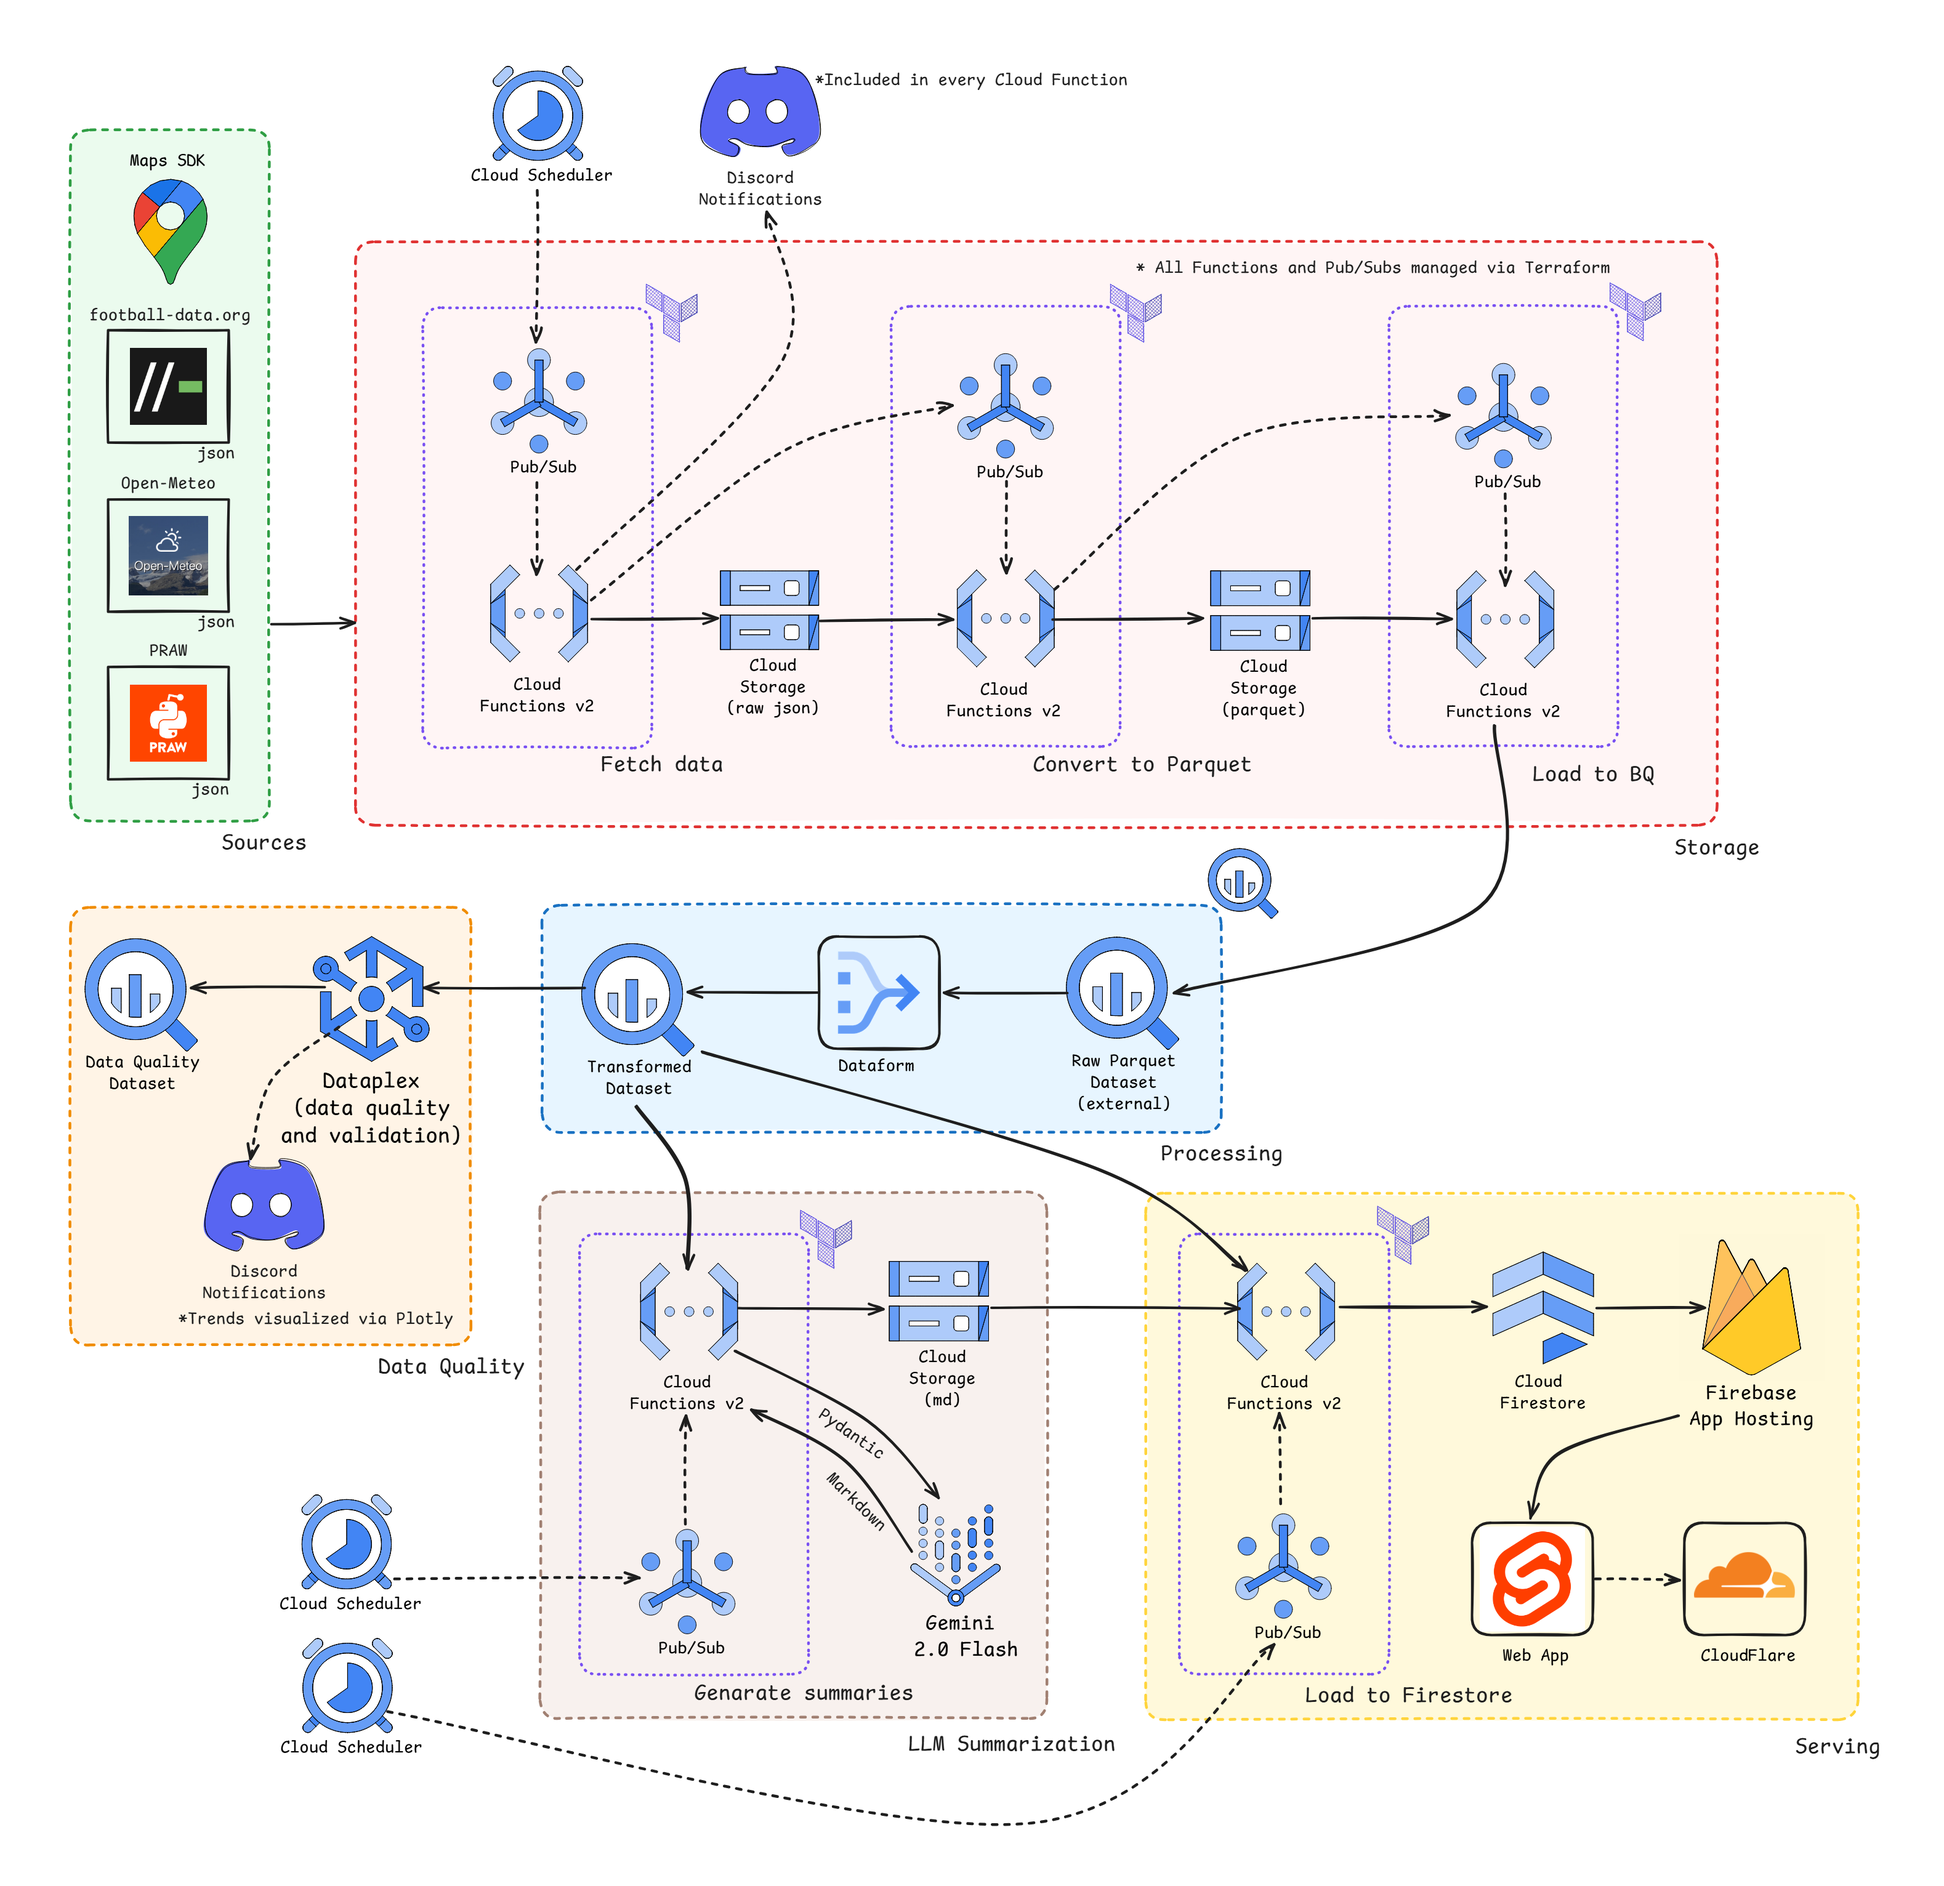
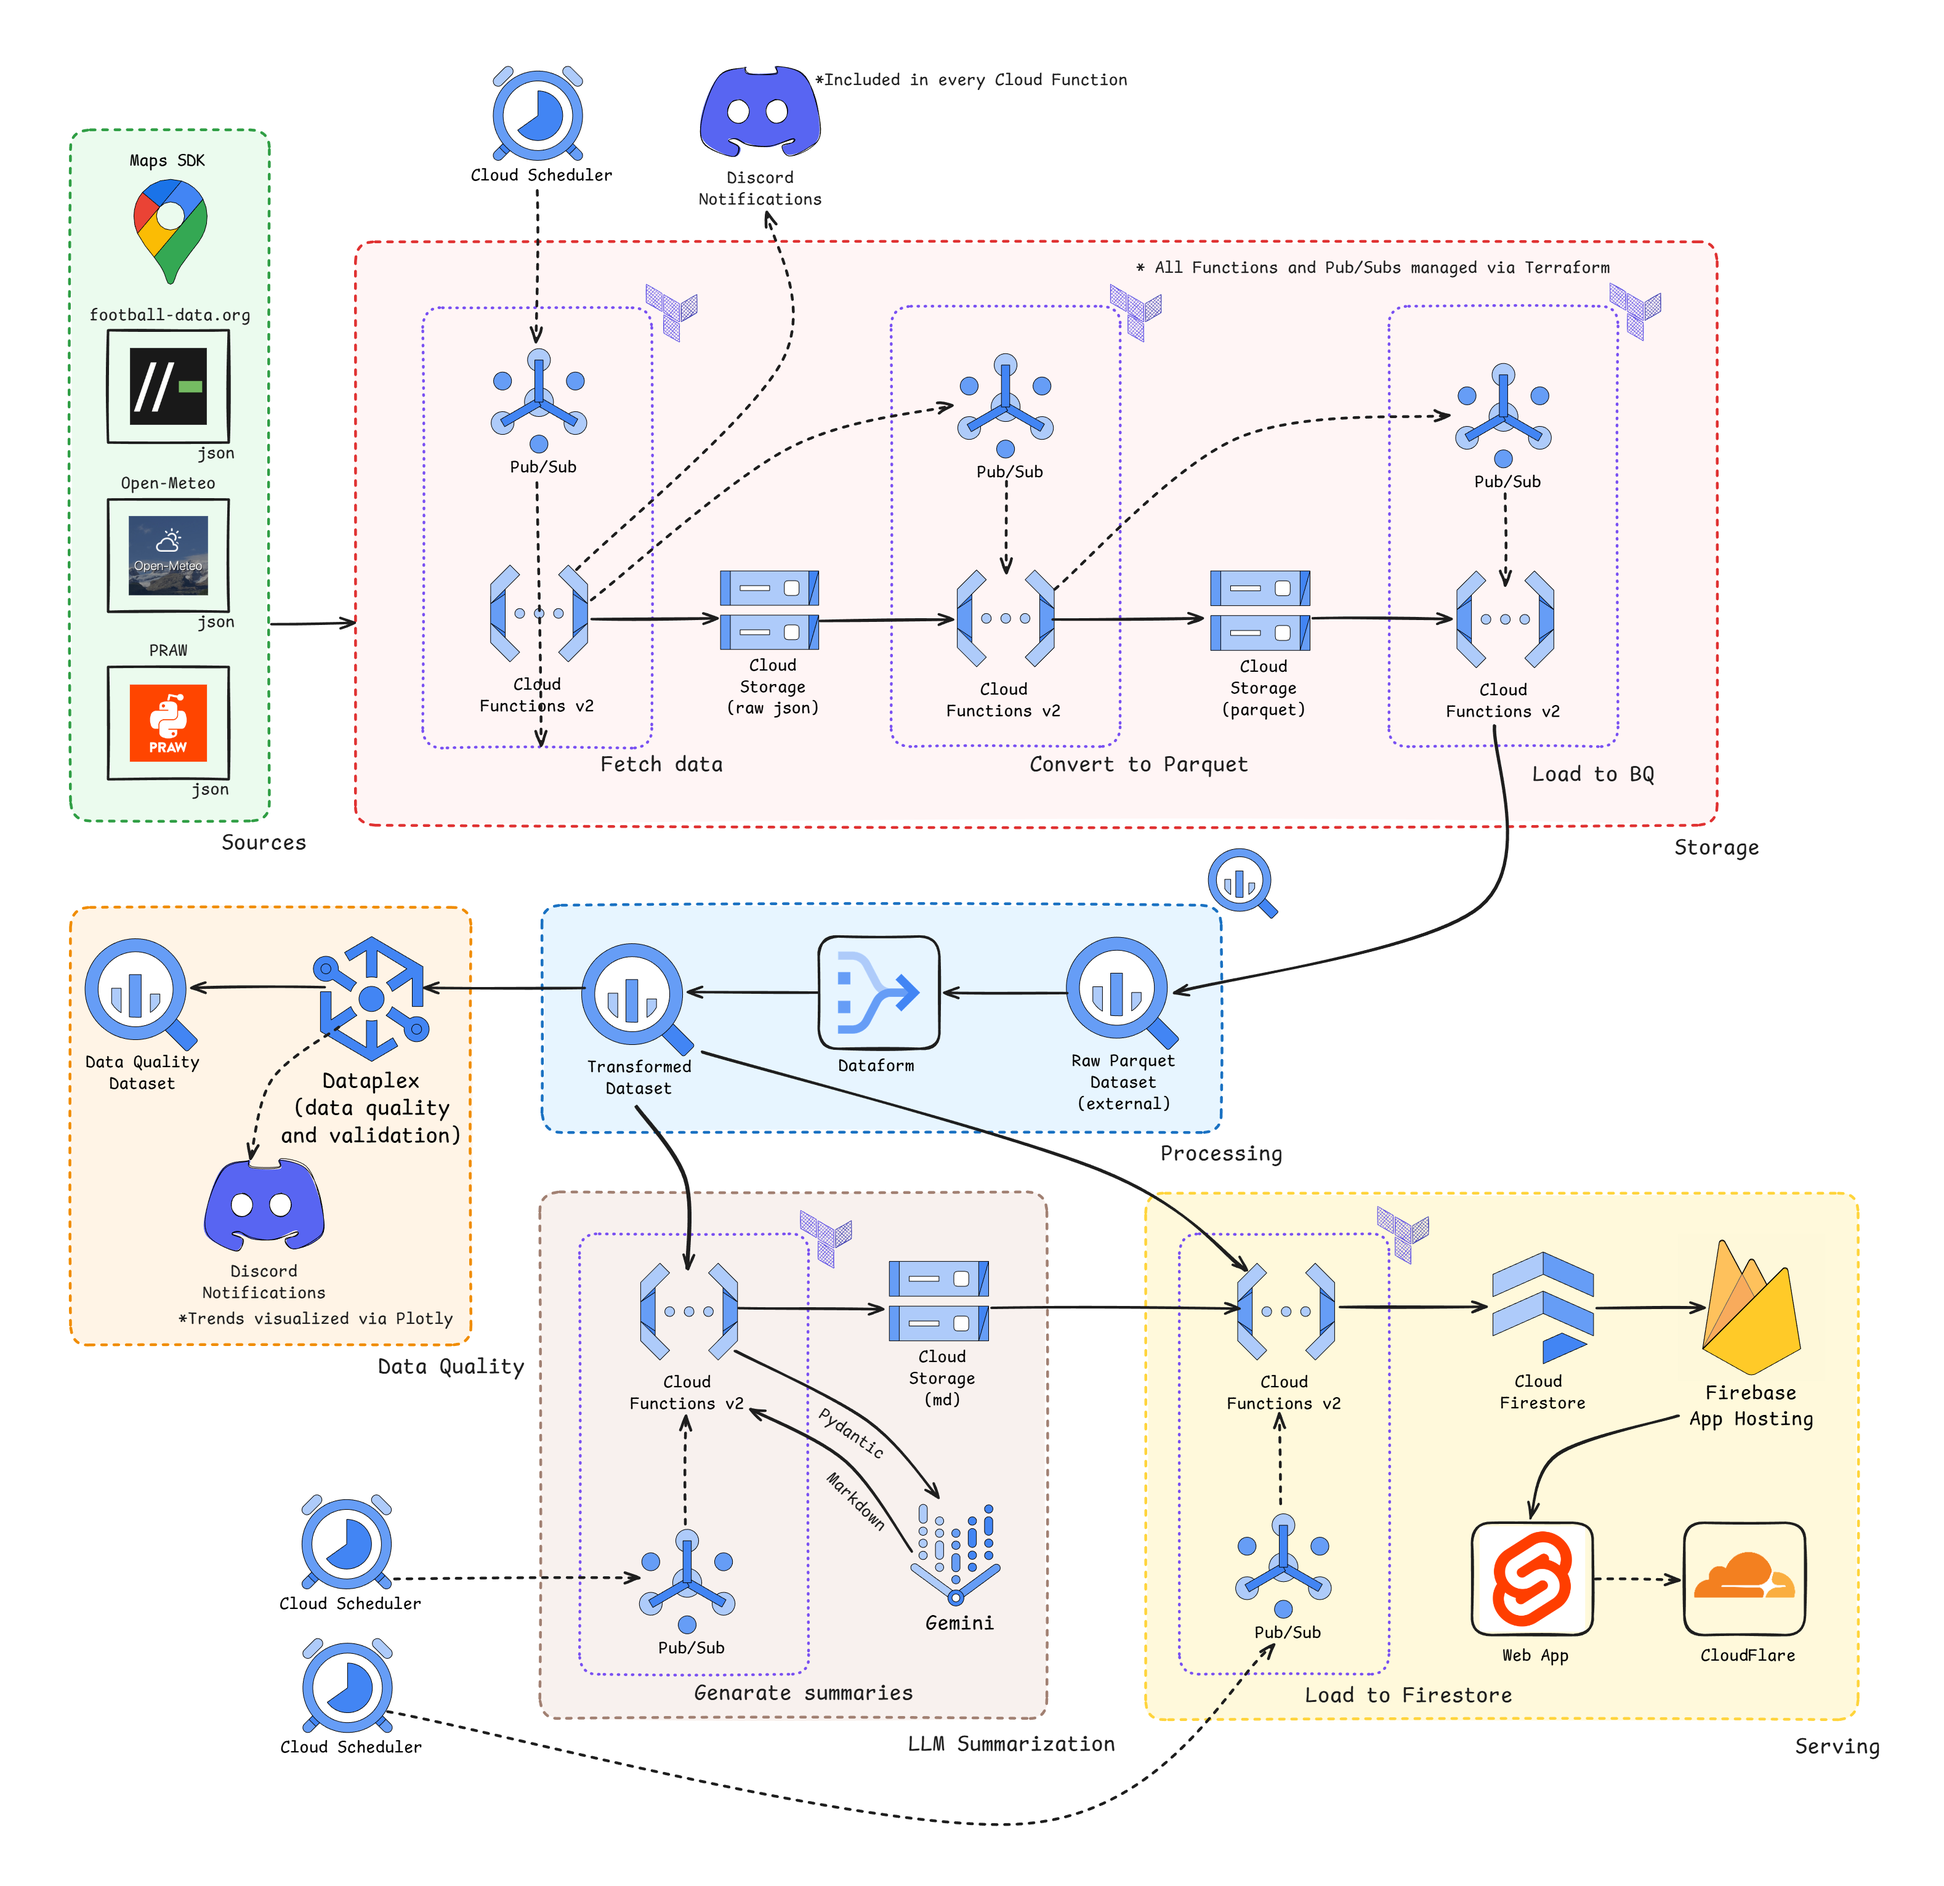
chore: update to Gemini 2.5 Flash

Changed region(s): [[0.5898, 0.4032, 0.6519, 0.4342], [0.5277, 0.4032, 0.5588, 0.4342], [0.3725, 0.3102, 0.4035, 0.3412]]

diff --git a/soccer_tracker_ui/src/routes/about/+page.svelte b/soccer_tracker_ui/src/routes/about/+page.svelte
@@ -102,7 +102,7 @@
 		</li>
 		<li>
 			<span class="font-semibold">Summarization:</span> Creation of short summaries in Markdown with
-			Gemini 2.0 Flash
+			Gemini
 		</li>
 		<li>
 			<span class="font-semibold">Visualization:</span> This web app for insights
@@ -191,7 +191,7 @@
 				</tr>
 				<tr class="border-b">
 					<td class="px-4 py-2">LLM</td>
-					<td class="px-4 py-2">Google Gemini 2.0 Flash</td>
+					<td class="px-4 py-2">Google Gemini 2.5 Flash</td>
 				</tr>
 			</tbody>
 		</table>

diff --git a/cloud_functions/summary_generation/main.py b/cloud_functions/summary_generation/main.py
@@ -216,7 +216,7 @@ ORDER BY match_date, league
             project=os.environ.get("GCP_PROJECT_ID"),
             location="us-central1",
         )
-        model = "gemini-2.0-flash-001"
+        model = "gemini-2.5-flash"
         generated_count = 0
         for match_date, league, prompt in summaries:
             filename = f"match_summaries/{match_date}_{normalize_text(league)}.md"

diff --git a/README.md b/README.md
@@ -6,7 +6,6 @@
   <strong>⚠ LEARNING PROJECT:</strong> This is a personal learning project in the field of data engineering. I understand the architecture might not be the most optimal as this project. I made this to practise and learn. Feedback and suggestions are highly welcomed!
 </div>
 
-
 # Football Statistics Tracker 📊⚽
 
 ![Python](https://img.shields.io/badge/Python-3.12-green.svg)
@@ -17,7 +16,6 @@
 ![BigQuery](https://img.shields.io/badge/BigQuery-blue?logo=google-cloud)
 ![Firestore](https://img.shields.io/badge/Firestore-yellow?logo=firebase)
 ![Repo Size](https://img.shields.io/github/repo-size/peter115342/soccer-tracker-DE-project)
-
 
 An end-to-end data engineering pipeline that collects, processes, and analyzes football match results, standings data, weather data, Reddit data and summarizes matchdays using Gemini from the top 5 European leagues. Used data sources include [football-data.org](https://www.football-data.org/) API, [Open-Meteo](https://open-meteo.com/) API, and [PRAW](https://praw.readthedocs.io/en/stable/) (Reddit API), [Maps](https://developers.google.com/maps)...
 
@@ -40,10 +38,10 @@ This project demonstrates a complete data pipeline for football (soccer) results
 The pipeline follows the following architecture:
 
 1. **Data Ingestion**: Cloud Functions trigger on schedule to fetch data
-2. **Storage Layers**: Raw data(json) → External BQ tables (Parquet) → Processed Data in BQ → Firestore  
-4. **Validation**: Very simple validation and Data qaulity with Dataplex
-5. **Summarization**: Creation of short summaries in Markdown with Gemini 2.0 Flash
-6. **Visualization**: [Web app](https://dataeurotop5football.win/) for insights 
+2. **Storage Layers**: Raw data(json) → External BQ tables (Parquet) → Processed Data in BQ → Firestore
+3. **Validation**: Very simple validation and Data qaulity with Dataplex
+4. **Summarization**: Creation of short summaries in Markdown with Gemini
+5. **Visualization**: [Web app](https://dataeurotop5football.win/) for insights
 
 ## Data Sources
 
@@ -54,25 +52,24 @@ The pipeline follows the following architecture:
 
 ## Technology Stack
 
-| Category | Technologies |
-|----------|--------------|
-| Cloud Platform | Google Cloud Platform (GCP) |
-| Infrastructure as Code | Terraform |
-| Programming Languages | Python, TypeScript (Svelte) |
-| Data Storage | Cloud Storage, BigQuery, Firestore |
-| Data Quality | Dataplex |
-| Data Transformation | Dataform |
-| Serverless Computing | Cloud Functions |
-| Event-Driven Architecture | Pub/Sub |
-| API Consumption | Football-data.org, Open-Meteo, Reddit API, Google Maps |
-| CI/CD | GitHub Actions |
-| Package Management | uv, pyproject.toml |
-| Code Quality | Ruff, Bandit, Mypy |
-| Testing | pytest |
-| Web Framework | Svelte, ShadCN UI Components |
-| Hosting | Firebase App Hosting |
-| LLM | Google Gemini 2.0 Flash |
-
+| Category                  | Technologies                                           |
+| ------------------------- | ------------------------------------------------------ |
+| Cloud Platform            | Google Cloud Platform (GCP)                            |
+| Infrastructure as Code    | Terraform                                              |
+| Programming Languages     | Python, TypeScript (Svelte)                            |
+| Data Storage              | Cloud Storage, BigQuery, Firestore                     |
+| Data Quality              | Dataplex                                               |
+| Data Transformation       | Dataform                                               |
+| Serverless Computing      | Cloud Functions                                        |
+| Event-Driven Architecture | Pub/Sub                                                |
+| API Consumption           | Football-data.org, Open-Meteo, Reddit API, Google Maps |
+| CI/CD                     | GitHub Actions                                         |
+| Package Management        | uv, pyproject.toml                                     |
+| Code Quality              | Ruff, Bandit, Mypy                                     |
+| Testing                   | pytest                                                 |
+| Web Framework             | Svelte, ShadCN UI Components                           |
+| Hosting                   | Firebase App Hosting                                   |
+| LLM                       | Google Gemini 2.5 Flash                                |
 
 ## Project Structure
 
@@ -119,15 +116,14 @@ soccer-tracker-DE-project/
 - [Terraform README](https://github.com/peter115342/soccer-tracker-DE-project/blob/main/terraform/README.md)
 - [GH Actions README](https://github.com/peter115342/soccer-tracker-DE-project/blob/main/.github/workflows/README.md)
 
-
 ## [Web app](https://dataeurotop5football.win/)
 
-The project includes a Svelte web app for visualizing match results, weather data, and match summaries. 
+The project includes a Svelte web app for visualizing match results, weather data, and match summaries.
 
 App includes:
 
 - Match Results
-- Match summaries using an LLM (Gemini 2.0 Flash)
+- Match summaries using an LLM (Gemini 2.5 Flash)
 - Weather data during matches
 - Comments from Reddit
 
@@ -139,5 +135,6 @@ App includes:
   <strong>⚠ DISCLAIMER:</strong> I know this data probably does not have much real value as it is not real-time and the statistics are not that deep ( I wanted to stay within free tiers of APIs).
 </div>
 
------------------------------------
+---
+
 I got the idea to make this project from this [repo](https://github.com/digitalghost-dev/premier-league) by [digitalghost-dev](https://github.com/digitalghost-dev)
